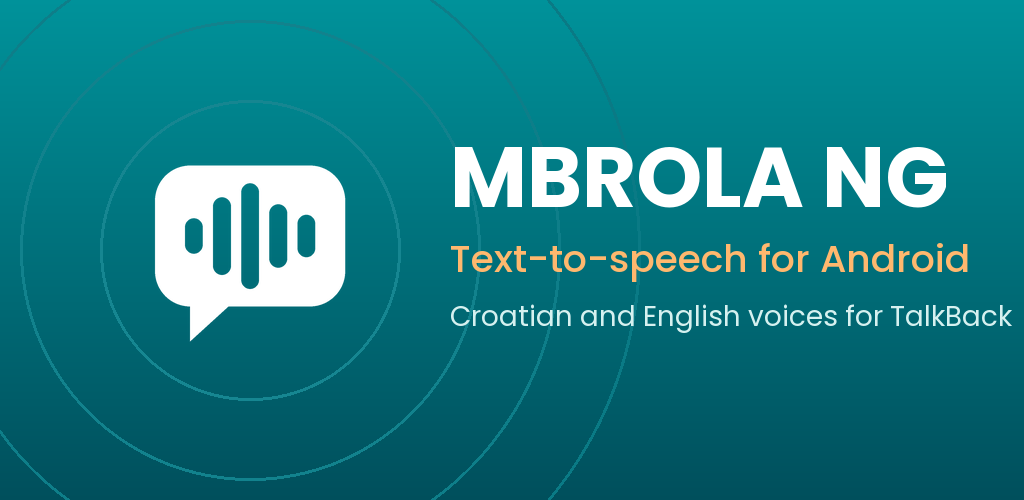
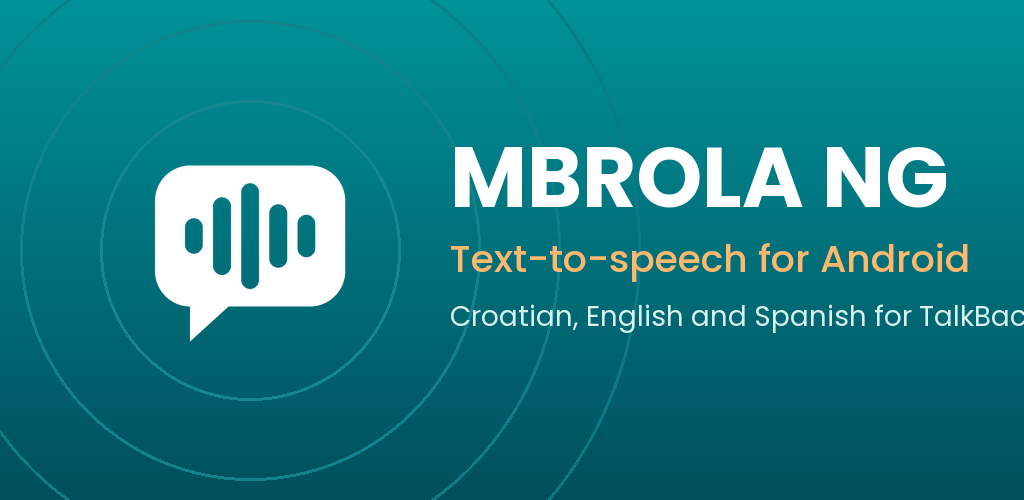
Android store images: Spanish feature graphic and screenshots
Resources: Spanish names in the voice catalog, so the app shows the
languages and voices in Spanish.

Changed region(s): [[0.5625, 0.6, 1.0, 0.66]]

diff --git a/android/images/make_images.py b/android/images/make_images.py
@@ -7,7 +7,7 @@
 #
 # Writes into android/images:
 #   icon-512.png                 app icon for the store listing (512 x 512)
-#   feature-graphic-en.png / -hr.png   feature graphic (1024 x 500)
+#   feature-graphic-en.png / -hr.png / -es.png   feature graphic (1024 x 500)
 # The icon is the same drawing as the launcher icon
 # (app/src/main/res/drawable/ic_launcher_foreground.xml).
 # Text uses the Poppins font (SIL Open Font License), downloaded once into
@@ -103,6 +103,7 @@ def main():
 	icon()
 	feature("en", "Text-to-speech for Android", "Croatian, English and Spanish for TalkBack")
 	feature("hr", "Pretvaranje teksta u govor", "Hrvatski, engleski i španjolski za TalkBack")
+	feature("es", "Texto a voz para Android", "Croata, inglés y español para TalkBack")
 	for name in sorted(os.listdir(HERE)):
 		if name.endswith(".png"):
 			with Image.open(os.path.join(HERE, name)) as im:
